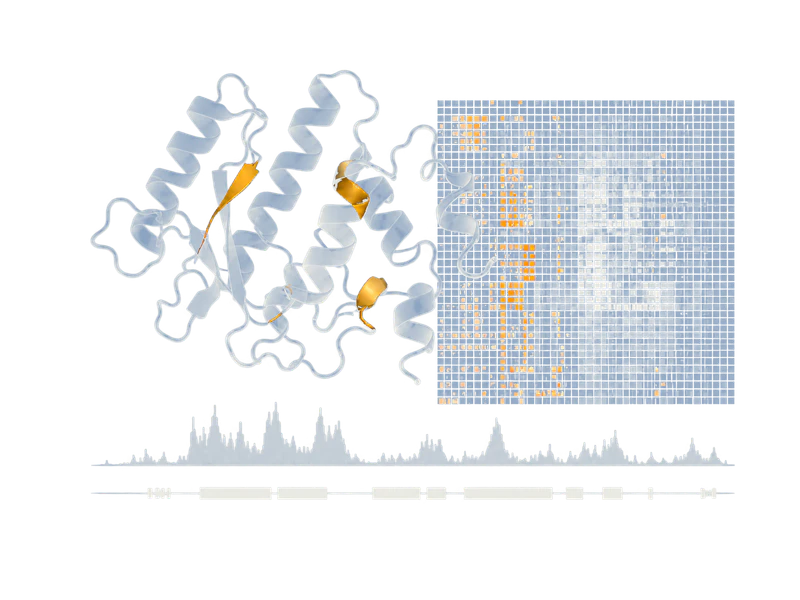
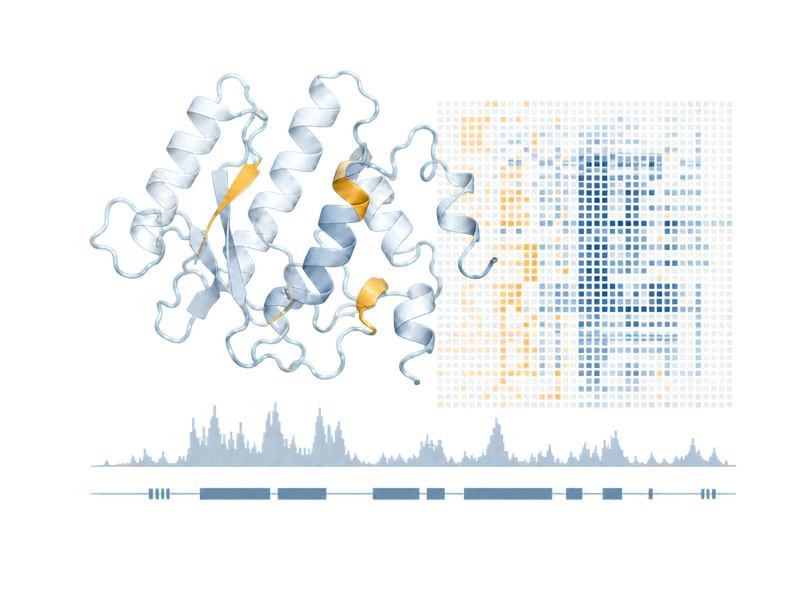
Blend scientific hero into background

diff --git a/src/index.css b/src/index.css
@@ -191,15 +191,48 @@
     background: transparent;
   }
 
-  .hero-science-art {
-    transform-origin: center;
-    filter: drop-shadow(0 18px 26px hsl(var(--primary) / 0.1));
-    animation: hero-science-drift 10s ease-in-out infinite;
-    will-change: transform;
+  .hero-content {
+    min-height: 44rem;
+    align-items: flex-start;
+    padding-top: 3.5rem;
+    padding-bottom: 20rem;
   }
 
-  .dark .hero-science-art {
-    filter: drop-shadow(0 20px 30px hsl(var(--primary) / 0.12));
+  .hero-copy {
+    position: relative;
+    z-index: 2;
+  }
+
+  .hero-science-field {
+    position: absolute;
+    bottom: -2rem;
+    left: 50%;
+    z-index: 1;
+    width: min(135vw, 44rem);
+    pointer-events: none;
+    opacity: 0.78;
+    transform: translateX(-50%);
+    -webkit-mask-image: radial-gradient(
+      ellipse 78% 76% at 60% 48%,
+      #000 0 54%,
+      rgb(0 0 0 / 92%) 72%,
+      transparent 100%
+    );
+    mask-image: radial-gradient(
+      ellipse 78% 76% at 60% 48%,
+      #000 0 54%,
+      rgb(0 0 0 / 92%) 72%,
+      transparent 100%
+    );
+  }
+
+  .dark .hero-science-field {
+    opacity: 0.72;
+  }
+
+  .hero-science-art {
+    transform-origin: center;
+    animation: hero-science-drift 10s ease-in-out infinite;
   }
 
   .site-logo-system-dark {
@@ -269,6 +302,41 @@
 
   50% {
     transform: translate3d(0, -7px, 0);
+  }
+}
+
+@media (min-width: 640px) {
+  .hero-content {
+    min-height: 54rem;
+    padding-top: 4rem;
+    padding-bottom: 27rem;
+  }
+
+  .hero-science-field {
+    bottom: -3rem;
+    width: min(110vw, 52rem);
+  }
+}
+
+@media (min-width: 1024px) {
+  .hero-content {
+    min-height: 40rem;
+    align-items: center;
+    padding-top: 6rem;
+    padding-bottom: 6rem;
+  }
+
+  .hero-science-field {
+    top: 50%;
+    bottom: auto;
+    left: calc(50% - 5rem);
+    width: min(72vw, 76rem);
+    opacity: 0.9;
+    transform: translateY(-50%);
+  }
+
+  .dark .hero-science-field {
+    opacity: 0.84;
   }
 }
 

diff --git a/src/pages/Home.tsx b/src/pages/Home.tsx
@@ -25,10 +25,14 @@ const objectives = [
 
 const Home = () => (
   <div>
-    <section className="relative overflow-hidden border-b border-border bg-background">
-      <div className="absolute inset-0 bg-lab-grid" aria-hidden="true" />
-      <div className="relative mx-auto grid max-w-6xl items-center gap-10 px-4 py-14 sm:px-6 sm:py-16 md:py-20 lg:grid-cols-[0.92fr_1.08fr] lg:gap-12 lg:px-8 lg:py-24">
-        <div>
+    <section className="hero-shell relative isolate overflow-hidden border-b border-border bg-background">
+      <div className="absolute inset-0 z-0 bg-lab-grid" aria-hidden="true" />
+      <div className="hero-science-field" aria-hidden="true">
+        <HeroScienceGraphic className="w-full" />
+      </div>
+
+      <div className="hero-content relative z-10 mx-auto flex max-w-6xl px-4 sm:px-6 lg:px-8">
+        <div className="hero-copy max-w-[36rem]">
           <p className="eyebrow">Student org / UC Berkeley</p>
           <h1 className="mt-5 max-w-[15ch] text-4xl font-bold leading-[1.08] text-heading sm:text-5xl md:text-6xl">
             Computational Biology at <span className="gold-mark">Berkeley</span>
@@ -52,10 +56,6 @@ const Home = () => (
               <Link to="/about">about us</Link>
             </EnhancedButton>
           </div>
-        </div>
-
-        <div className="mx-auto w-full max-w-[520px] lg:mx-0 lg:max-w-[640px] lg:justify-self-end">
-          <HeroScienceGraphic className="w-full" />
         </div>
       </div>
     </section>

diff --git a/src/components/HeroScienceGraphic.tsx b/src/components/HeroScienceGraphic.tsx
@@ -12,7 +12,7 @@ const heroImageProps = {
   decoding: "async" as const,
   draggable: false,
   loading: "eager" as const,
-  sizes: "(min-width: 1280px) 640px, (min-width: 1024px) 52vw, 92vw",
+  sizes: "(min-width: 1024px) 72vw, (min-width: 640px) 110vw, 135vw",
 };
 
 interface HeroScienceGraphicProps {

diff --git a/public/hero/README.md b/public/hero/README.md
@@ -3,14 +3,18 @@
 The landing-page artwork combines a protein ribbon, a genomic heatmap, and a
 coverage/gene track in one transparent 4:3 composition.
 
-- Source master: `assets-src/hero/compbio-research-atlas-light-master.png`
+- Source: `assets-src/hero/compbio-research-atlas-chroma-source.png`
 - Generated web assets: `compbio-research-atlas-{light,dark}-{800,1600}.webp`
 - Regeneration command: `npm run assets:hero`
 
-The light master was created with OpenAI image generation from a
-user-supplied scientific-layout reference on 2026-07-29, then isolated onto a
-true alpha channel. The dark assets are deterministic palette conversions of
-that same master, so theme changes do not shift the composition. California
-gold is preserved while blue and steel tones become pearl and ice blue.
+The source was created with OpenAI image generation from a user-supplied
+scientific-layout reference on 2026-07-29. The build script estimates the
+chroma field, reconstructs antialiased edge colors, removes residual magenta
+spill, and produces one shared alpha geometry. The clean pearl/ice/gold source
+becomes the dark asset directly; the light asset is a smooth deterministic
+navy/steel/gold palette conversion. Theme changes therefore never shift the
+composition or introduce binary color seams around the gold details.
 
-Edit the source master or the conversion script, not the generated WebP files.
+The website renders the result as a masked background field so it can bleed
+through the right side of the hero without becoming a bounded illustration.
+Edit the chroma source or conversion script, not the generated WebP files.
